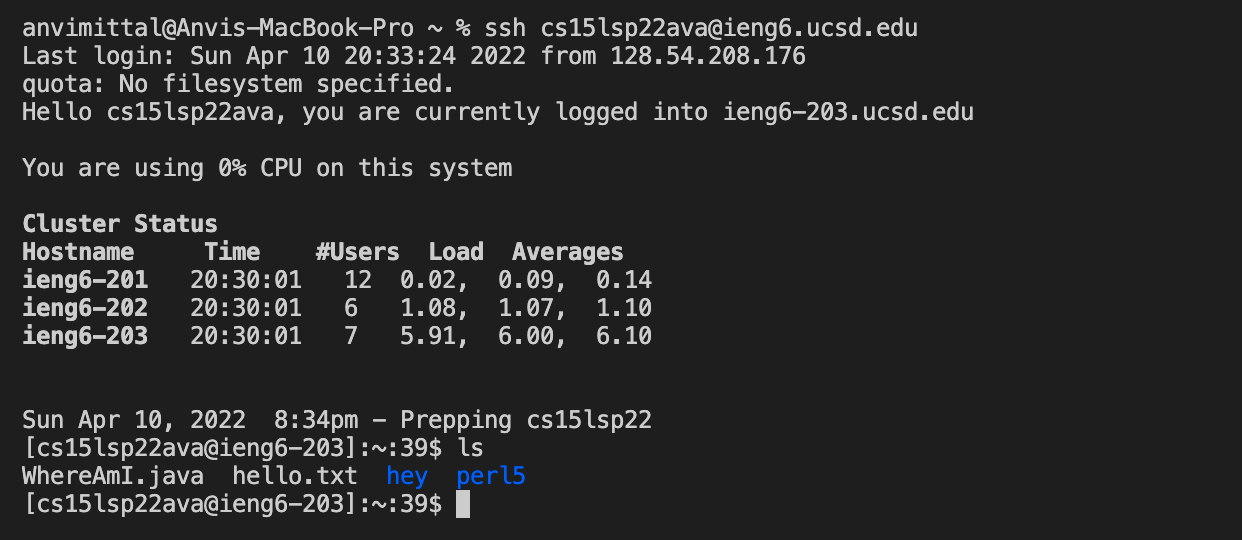
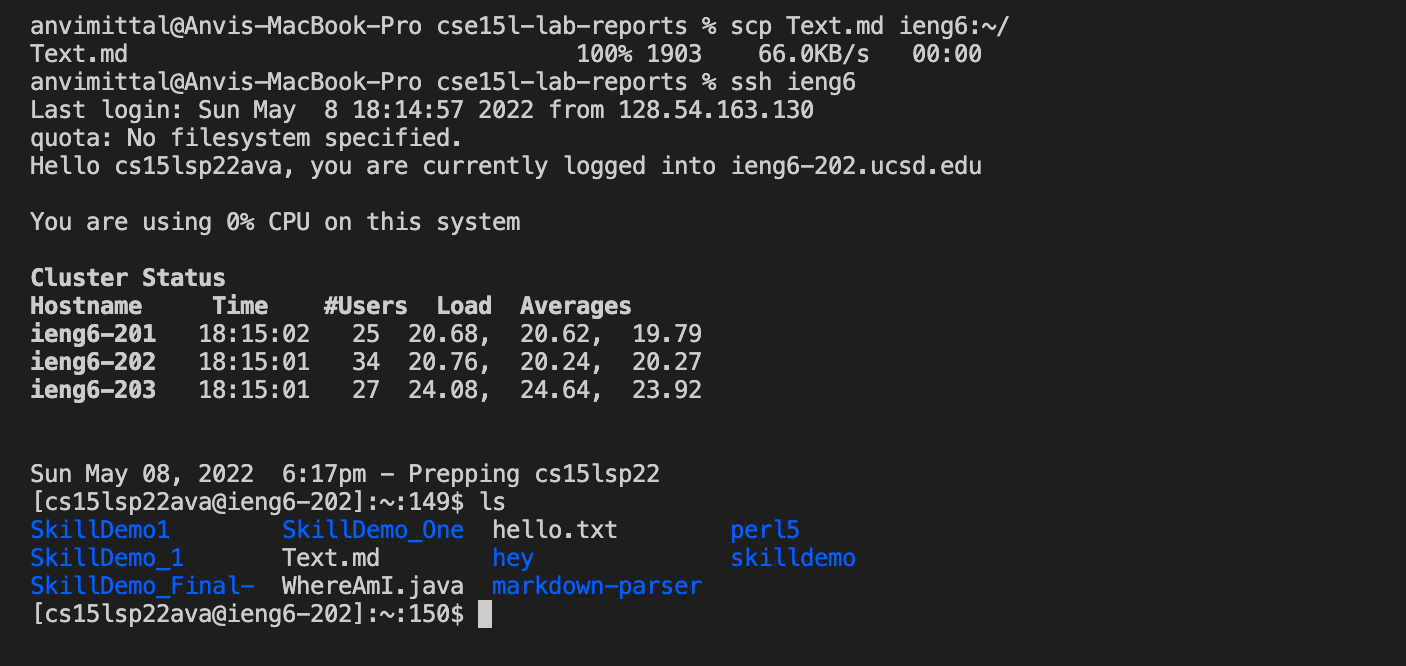
efe

diff --git a/lab-report-3-week-6.md b/lab-report-3-week-6.md
@@ -9,3 +9,18 @@
 
 **Streamlining `ssh` Configuration**
 
+When we log into `ieng6`, we must type the command `ssh cs15lsp22ava@ieng6.ucsd.edu` every single time. In order to streamline this process, we can put an entry in `~/.ssh/config` that tells SSH what username to use when logging into a specific server. So, open `~/.ssh/config` and all the following lines in it:
+
+```
+Host ieng6
+HostName ieng6.ucsd.edu
+User cs15lsp22ava (use your own username)
+```
+
+
+By doing this, you can login into `ssh` by simply using the command `ssh ieng6`. For example-
+![Image](ssh_ieng6.png)
+
+To copy a file from your laptop to a remote server, we can use the command `scp` and instead of typing out the entire username, all we need to do is use `ieng6` and the file will be copied. 
+For example-
+![Image](scp.png)
